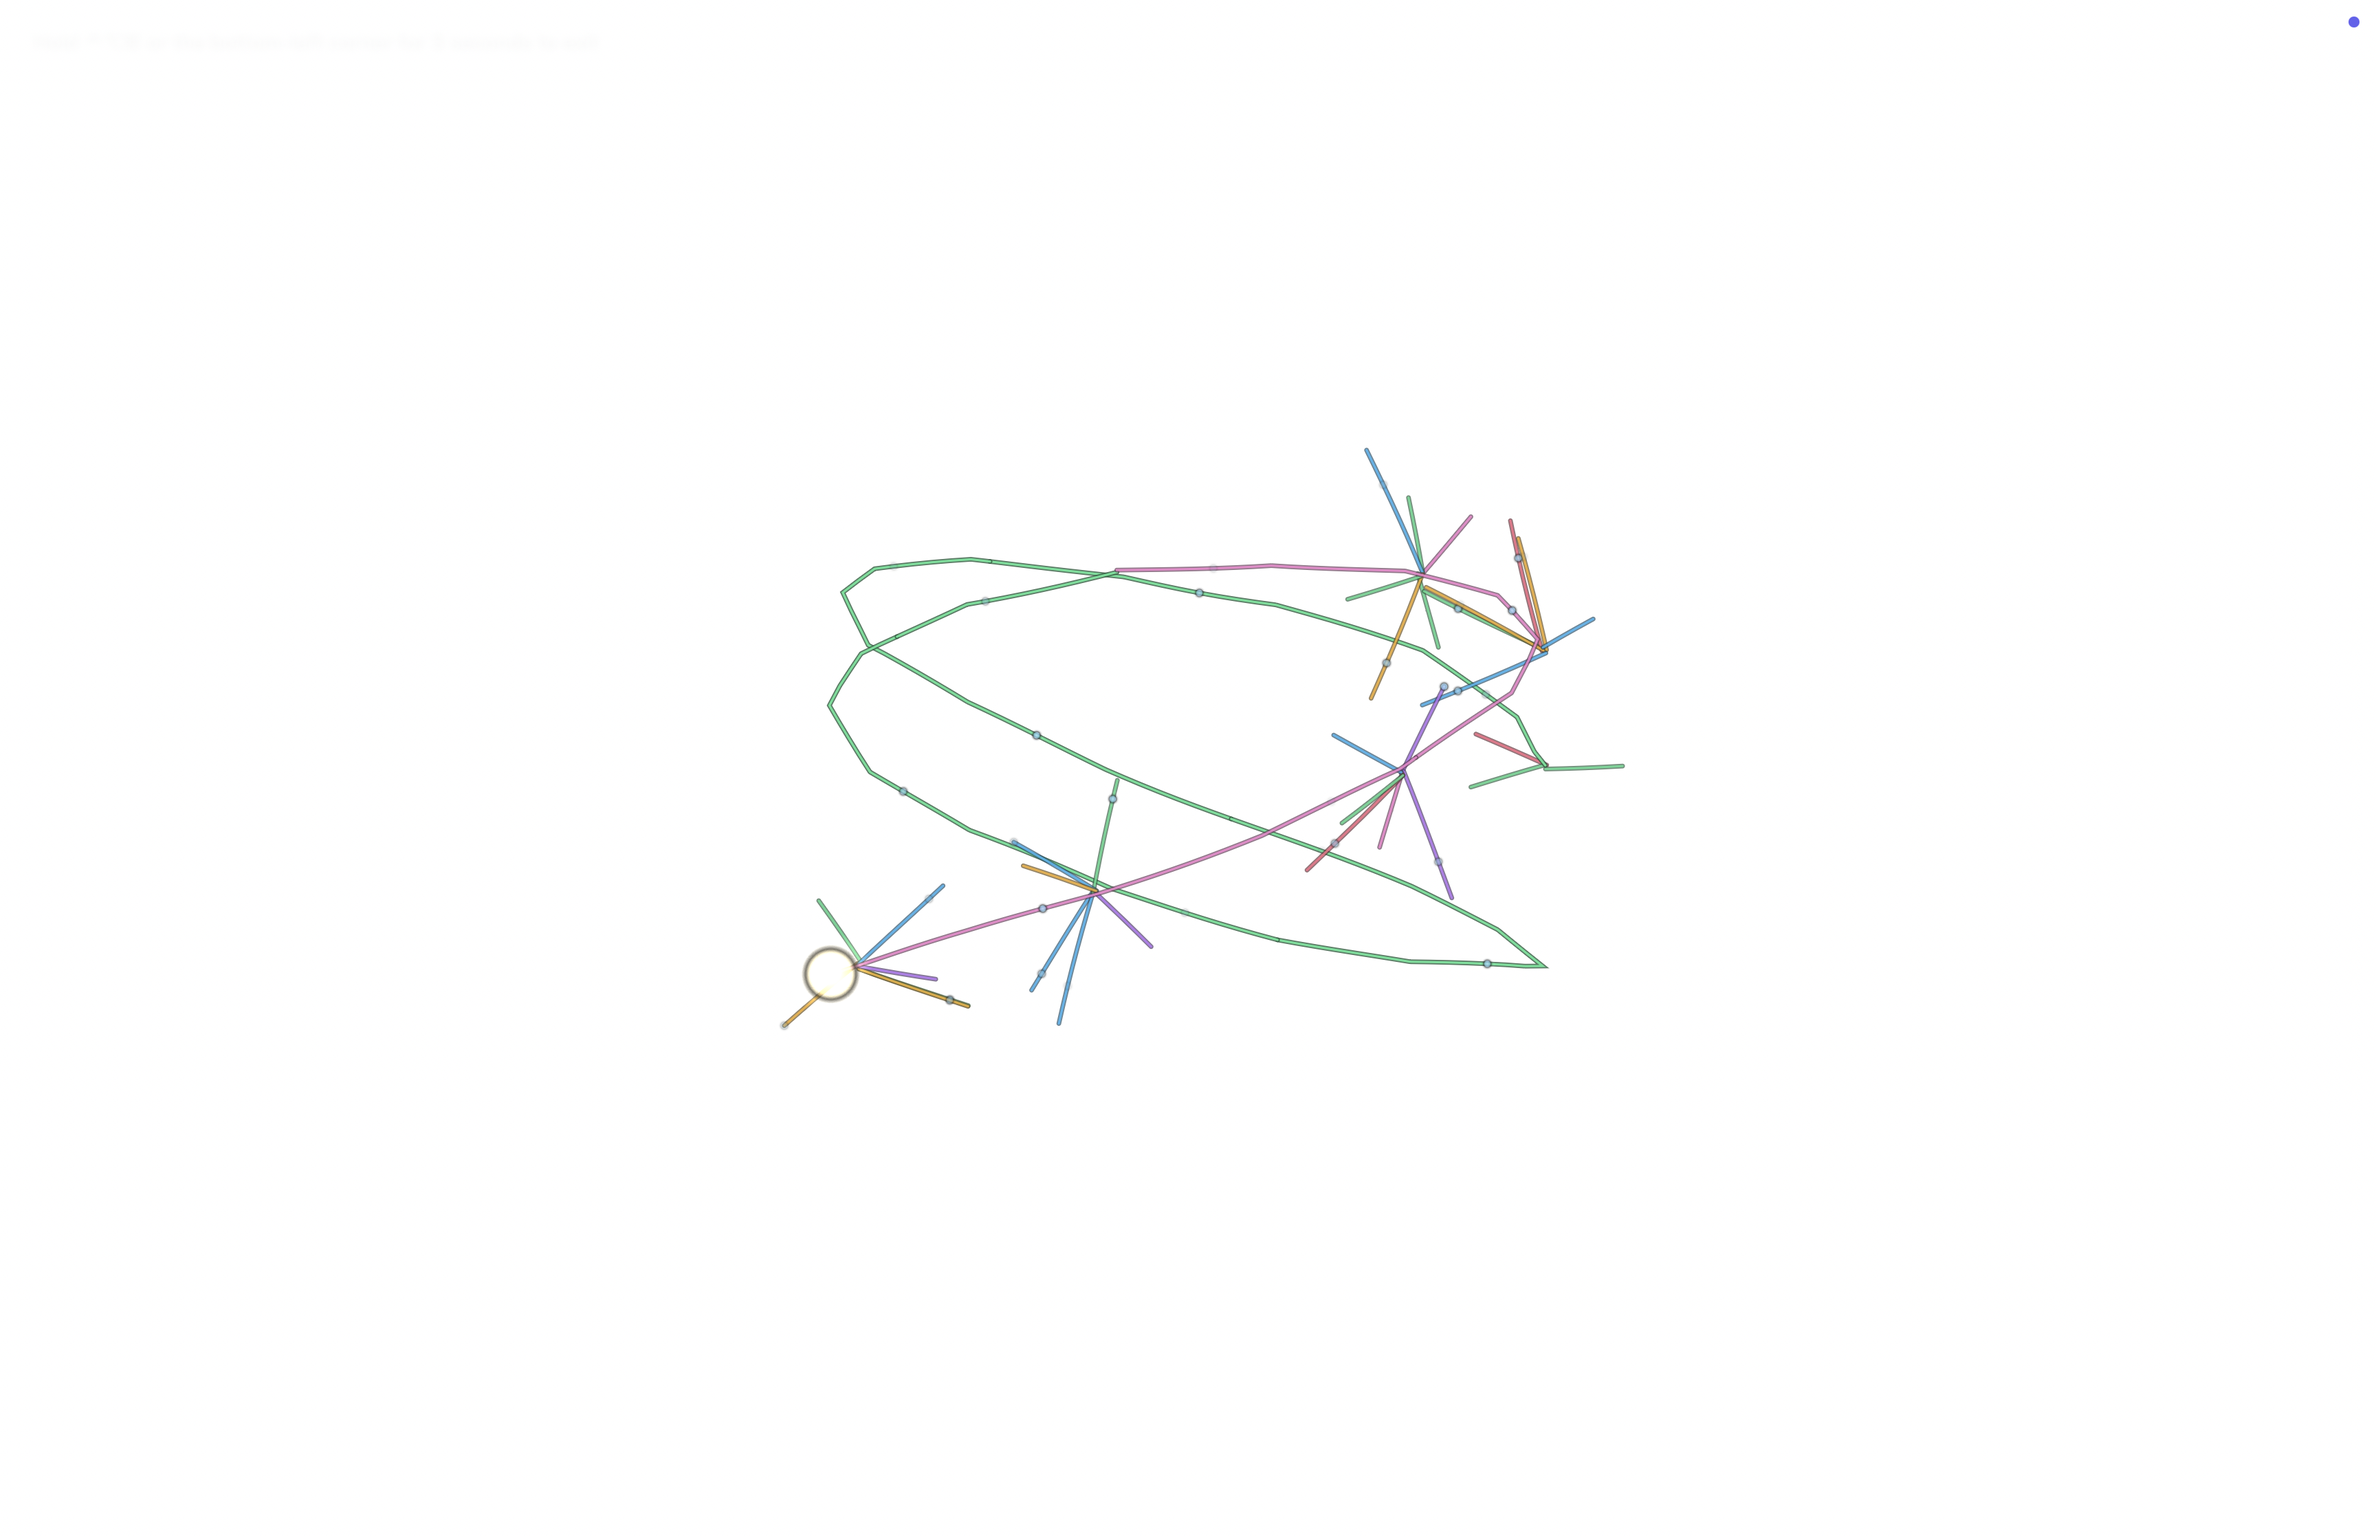
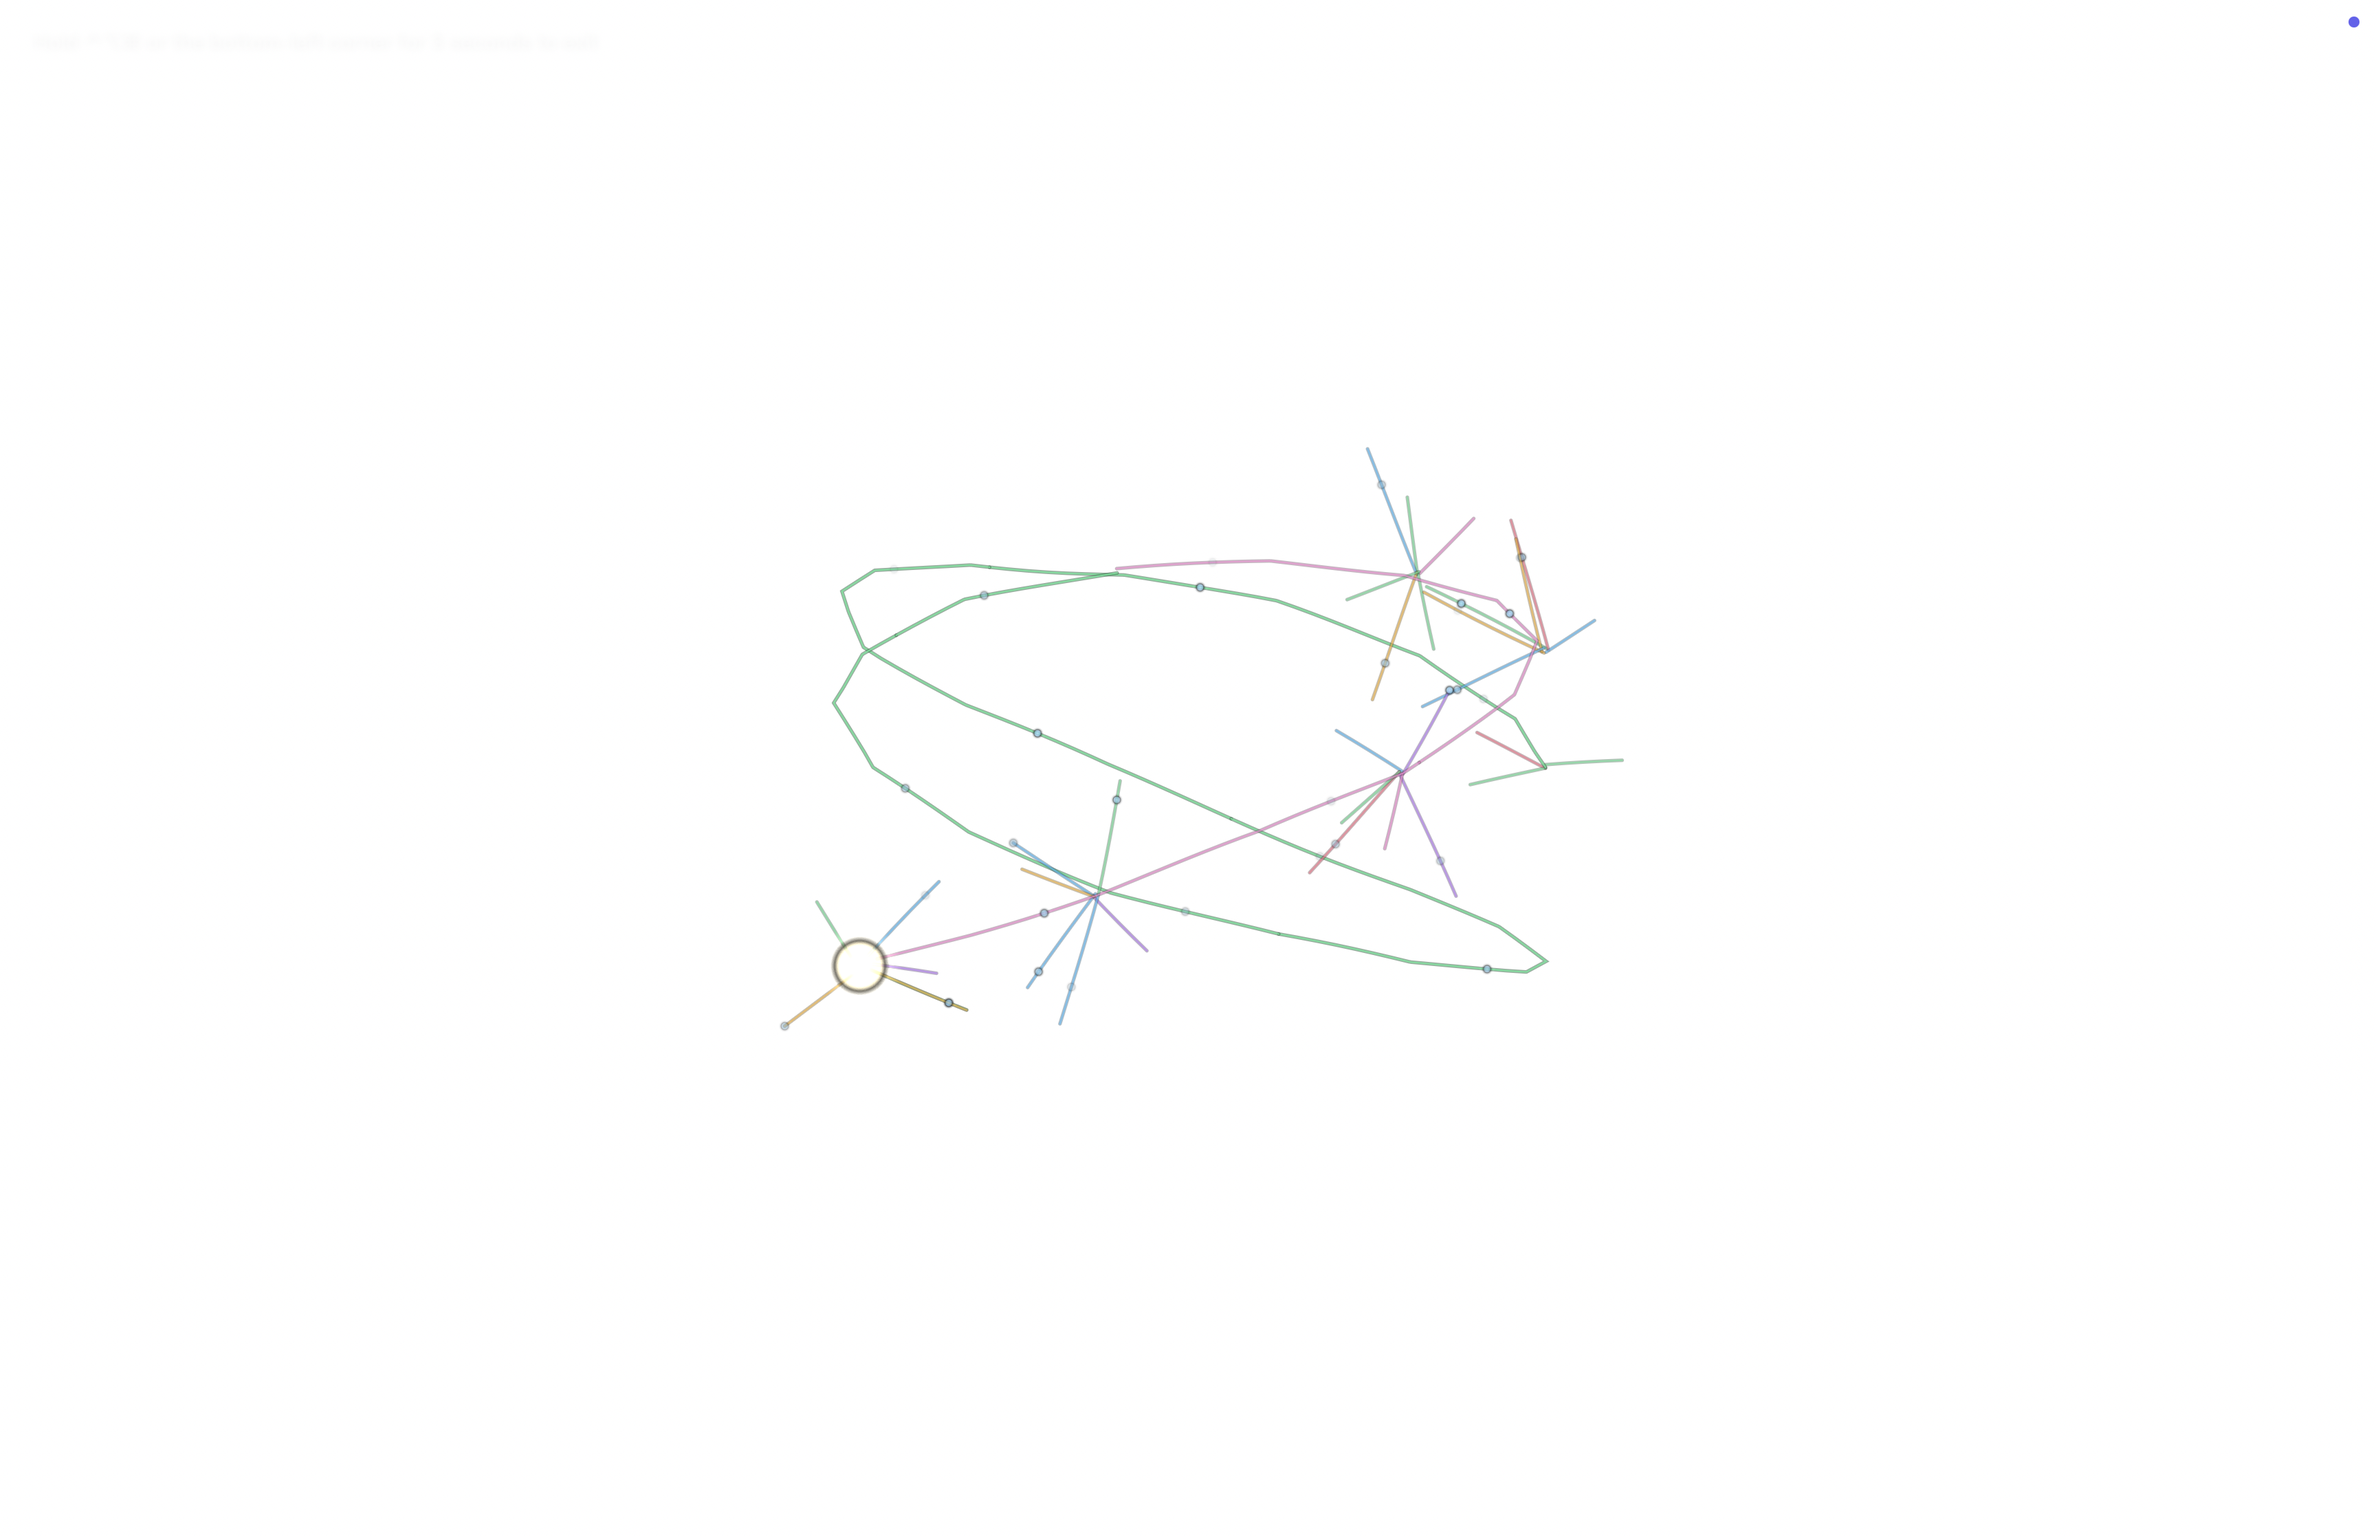
Silk: soften back to silk — hairline core, whisper casing, quieter rest state
User: solid lines lost the silk feel. Core 1.6->1.1px, casing 3.4->2.6px at
~1/3 opacity (tint shadow, not outline), resting alpha 0.8->0.62 (plucked
0.85). Colors intact; verified by screenshots on white + black.

diff --git a/Sources/kiddyproof/CalmSpiderwebScene.swift b/Sources/kiddyproof/CalmSpiderwebScene.swift
@@ -256,9 +256,9 @@ final class CalmSpiderwebScene: Scene {
         ctx.setBlendMode(.normal)
         ctx.setLineCap(.round)
         ctx.addPath(path)
-        ctx.setLineWidth(3.4)
-        ctx.setStrokeColor(blendColor(color, .black, 0.45 + 0.15 * w)
-            .withAlphaComponent(alpha * (0.5 + 0.35 * w)).cgColor)
+        ctx.setLineWidth(2.6)
+        ctx.setStrokeColor(blendColor(color, .black, 0.35 + 0.2 * w)
+            .withAlphaComponent(alpha * (0.32 + 0.3 * w)).cgColor)
         ctx.strokePath()
         // Core: the vivid color, lifted slightly toward white on dark backgrounds so
         // it pops, deepened to pure saturation over bright ones. The white-hot sheen
@@ -270,7 +270,7 @@ final class CalmSpiderwebScene: Scene {
         // the actual flash.
         if sheen > 0.02 { core = blendColor(core, Self.sheenTint, sheen * 0.3 * (1 - w)) }
         ctx.addPath(path)
-        ctx.setLineWidth(1.6)
+        ctx.setLineWidth(1.1)
         ctx.setStrokeColor(core.withAlphaComponent(alpha).cgColor)
         ctx.strokePath()
         // Over dark pixels every strand carries a constant soft colored glow (neon,
@@ -291,7 +291,7 @@ final class CalmSpiderwebScene: Scene {
         if let c = current, c.pts.count > 1 { all.append(c) }
         for (ti, t) in all.enumerated() where t.pts.count > 1 {
             let vibrating = now - t.pluckTime < 1.4
-            let baseA: CGFloat = vibrating ? 0.95 : 0.8
+            let baseA: CGFloat = vibrating ? 0.85 : 0.62
             // Chunked rendering (~32 points): background adaptation and the traveling
             // sheen both vary smoothly ALONG a thread instead of popping per thread.
             let chunk = 32
